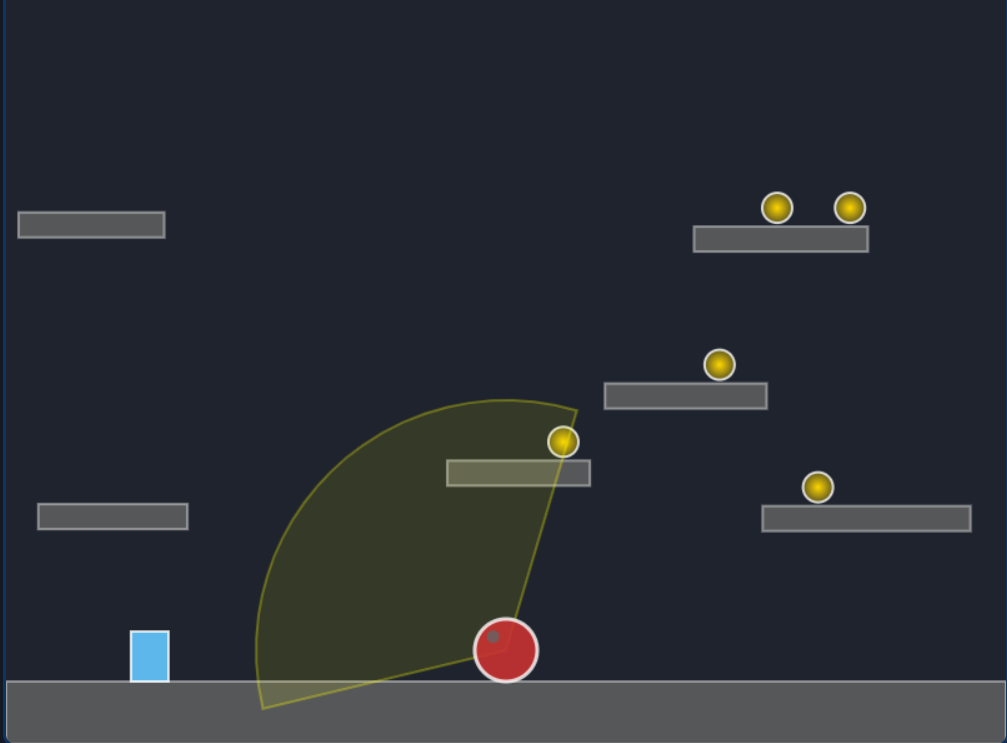
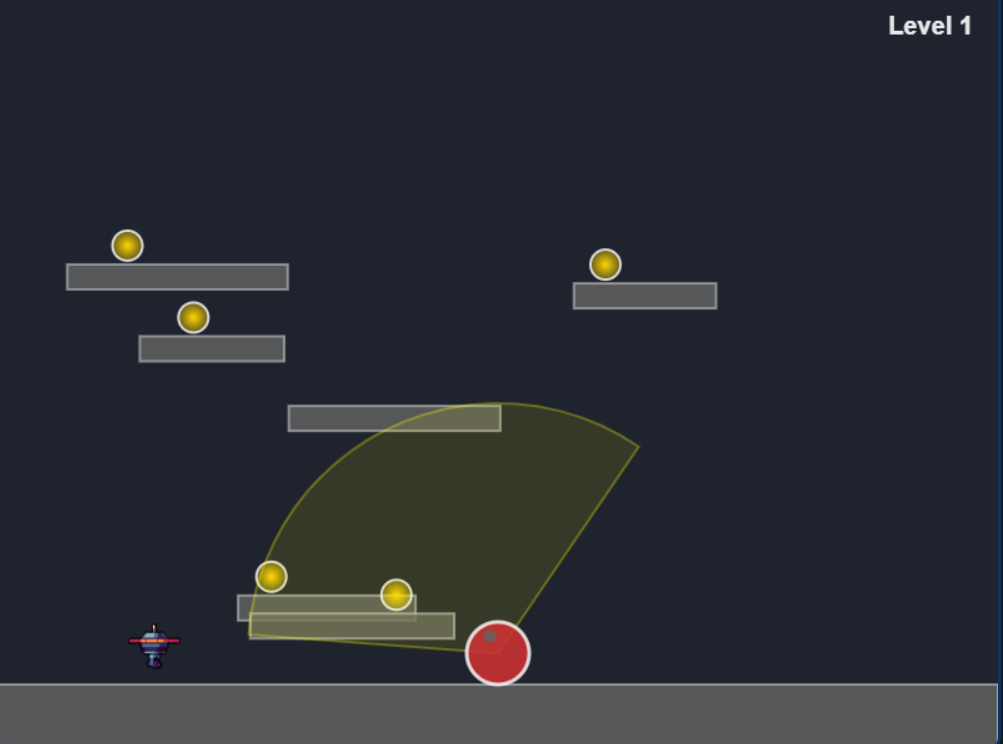
v5.5

diff --git a/assets/javascript/player.js b/assets/javascript/player.js
@@ -4,8 +4,8 @@ export class Player {
     constructor(x, y, game) {
         this.x = x; // Player x position
         this.y = y; // Player y position
-        this.width = 30; // Player width
-        this.height = 40; // Player height
+        this.width = 50; // Player width (increased from 30)
+        this.height = 60; // Player height (increased from 40)
         this.velocityX = 0; // Player horizontal velocity
         this.velocityY = 0; // Player vertical velocity
         this.speed = 5; // Player speed
@@ -16,30 +16,99 @@ export class Player {
         this.jumpCount = 0; // Player jump count
         this.isDropping = false; // Player is dropping through platform
         this.game = game; // Game instance
+        this.facingRight = true; // Track which direction player is facing
 
-        
-
-        // Animation states and frame data
+        // Animation states with sprite image paths
         this.animations = {
-            idle: this.mapSprite(['../img/drone_idle_anim/drone_idle1.png'
-                                ,'../img/drone_idle_anim/drone_idle2.png'
-                                ,'../img/drone_idle_anim/drone_idle3.png'
-                                ,'../img/drone_idle_anim/drone_idle4.png']), // Idle animation
-            walkR: this.mapSprite(['../img/drone_walkR_anim/drone_walkR1.png',
-                                '../img/drone_walkR_anim/drone_walkR2.png',
-                                '../img/drone_walkR_anim/drone_walkR3.png',
-                                '../img/drone_walkR_anim/drone_walkR4.png']), // Walk right animation
-            walkL: this.mapSprite(['../img/drone_walkL_anim/drone_walkRL1.png',
-                                '../img/drone_walkL_anim/drone_walkL2.png',
-                                '../img/drone_walkL_anim/drone_walkL3.png',
-                                '../img/drone_walkL_anim/drone_walkL4.png'])   // Walk left animation
+            idle: {
+                frames: this.loadSprites([
+                    '../img/drone_idle_anim/drone_idle1.png',
+                    '../img/drone_idle_anim/drone_idle2.png',
+                    '../img/drone_idle_anim/drone_idle3.png',
+                    '../img/drone_idle_anim/drone_idle4.png'
+                ]),
+                loaded: false
+            },
+            walkR: {
+                frames: this.loadSprites([
+                    '../img/drone_walkR_anim/drone_walkR1.png',
+                    '../img/drone_walkR_anim/drone_walkR2.png',
+                    '../img/drone_walkR_anim/drone_walkR3.png',
+                    '../img/drone_walkR_anim/drone_walkR4.png'
+                ]),
+                loaded: false
+            },
+            walkL: {
+                frames: this.loadSprites([
+                    '../img/drone_walkL_anim/drone_walkL1.png',
+                    '../img/drone_walkL_anim/drone_walkL2.png',
+                    '../img/drone_walkL_anim/drone_walkL3.png',
+                    '../img/drone_walkL_anim/drone_walkL4.png'
+                ]),
+                loaded: false
+            }
         };
         
         // Current animation state
         this.currentAnimation = 'idle'; // Default animation state
         this.currentFrame = 0; // Current frame index
         this.frameCounter = 0; // Counter for frame updates
-        this.animationSpeed = 100; // Animation speed
+        this.frameDelay = 8; // Number of game loops before advancing frame (controls animation speed)
+        this.spritesLoaded = false; // Track if all sprites are loaded
+        
+        // Check when sprites are loaded
+        this.checkSpritesLoaded();
+    }
+
+    // Load sprite images from file paths with error handling
+    loadSprites(imagePaths) {
+        return imagePaths.map((src, index) => {
+            const img = new Image();
+            
+            // Add error handler to prevent crashes
+            img.onerror = () => {
+                console.warn(`Failed to load sprite: ${src}`);
+            };
+            
+            // Add load handler to track loading status
+            img.onload = () => {
+                // Image loaded successfully
+            };
+            
+            img.src = src;
+            return img;
+        });
+    }
+
+    // Check if all sprites have finished loading
+    checkSpritesLoaded() {
+        let allLoaded = true;
+        
+        // Check all animation frames
+        for (const animName in this.animations) {
+            const anim = this.animations[animName];
+            const frames = anim.frames;
+            let animLoaded = true;
+            
+            for (const img of frames) {
+                // Check if image is loaded or failed to load
+                if (!img.complete) {
+                    animLoaded = false;
+                    allLoaded = false;
+                    break;
+                }
+            }
+            
+            // Mark this animation as loaded
+            anim.loaded = animLoaded;
+        }
+        
+        this.spritesLoaded = allLoaded;
+        
+        // If not all loaded, check again in 100ms
+        if (!allLoaded) {
+            setTimeout(() => this.checkSpritesLoaded(), 100);
+        }
     }
 
     // Player update function
@@ -49,105 +118,125 @@ export class Player {
         this.y += this.velocityY; // Apply vertical movement logic
         this.velocityX *= 0.85; // Apply friction logic
         
+        // Update facing direction based on velocity
+        if (this.velocityX > 0) {
+            this.facingRight = true;
+        } else if (this.velocityX < 0) {
+            this.facingRight = false;
+        }
+        
         // Keep player inside bounds
-        if (this.x < 0) this.x = 0; // If left edge of player is greater than left edge of canvas
+        if (this.x < 0) this.x = 0;
         if (this.x + this.width > this.game.canvas.width)
             this.x = this.game.canvas.width - this.width;
         
         // If player falls below canvas, trigger game over
         if (this.y > this.game.canvas.height)
-            this.game.gameState = 'gameOver'; // Set game state to game over
+            this.game.gameState = 'gameOver';
         
         // If player touches the ground, reset jump count
         if (this.isOnGround) {
-            this.jumpCount = 0; // Reset jump count
+            this.jumpCount = 0;
         }
         
-        // Player is not on ground
+        // Player is not on ground by default (will be set to true by collision detection)
         this.isOnGround = false;
         
         // Update animation state based on player movement
         this.updateAnimation();
     }
-
-    mapSprite(imgsArray) {
-    return imgsArray.map(src => {
-        const img = new Image();
-        img.src = src;
-        return img;
-    }
-    );
-    }
     
     // Update animation state based on player movement
     updateAnimation() {
-        // Determine which animation to play
-        if (Math.abs(this.velocityX) !== 0) {
-            this.currentAnimation = (this.velocityX > 0 ) ? 'walkR' : 'walkL'; // Determine which direction to play
+        // Determine which animation to play based on movement
+        if (Math.abs(this.velocityX) > 0.1) {
+            // Player is moving - use walk animation
+            // Use walkR for right movement, walkL for left movement
+            this.currentAnimation = this.facingRight ? 'walkR' : 'walkL';
         } else {
-            this.currentAnimation = 'idle'; // Play idle animation when stationary
+            // Player is stationary - use idle animation
+            this.currentAnimation = 'idle';
         }
         
-        // Update frame counter and advance frames
+        // Get current animation data
         const anim = this.animations[this.currentAnimation];
+        
+        // Safety check: ensure animation exists and has frames
+        if (!anim || !anim.frames || anim.frames.length === 0) {
+            console.warn(`Animation ${this.currentAnimation} not found or has no frames`);
+            this.currentAnimation = 'idle'; // Fallback to idle
+            return;
+        }
+        
+        // Update frame counter
         this.frameCounter++;
         
-        if (this.frameCounter >= this.animationSpeed) {
-            this.frameCounter = 0;
-            this.currentFrame = (this.currentFrame + 1) % anim.frames; // Loop through frames
+        // Advance to next frame when counter reaches delay threshold
+        if (this.frameCounter >= this.frameDelay) {
+            this.frameCounter = 0; // Reset counter
+            this.currentFrame = (this.currentFrame + 1) % anim.frames.length; // Loop through frames
         }
     }
 
     // Player draw function
     draw(context) {
-        // If sprite is loaded, draw sprite animation
-        if (this.spriteLoaded) {
-            const anim = this.animations[this.currentAnimation];
-            
-            // Calculate source coordinates on sprite sheet
-            const srcX = this.currentFrame * this.frameWidth;
-            const srcY = anim.row * this.frameHeight;
-            
-            // Save context state for transformations
-            context.save();
-            
-            // Apply red tint if player is detected
-            if (this.isDetected) {
-                context.globalAlpha = 0.7; // Make slightly transparent
-                context.fillStyle = 'rgba(255, 100, 100, 0.3)';
-                context.fillRect(this.x, this.y, this.width, this.height);
-                context.globalAlpha = 1.0; // Reset alpha
+        // Get current animation data
+        const anim = this.animations[this.currentAnimation];
+        
+        // Check if sprites are loaded and animation is valid
+        if (anim && anim.loaded && anim.frames && anim.frames.length > 0) {
+            // Ensure current frame is within bounds
+            if (this.currentFrame >= anim.frames.length) {
+                this.currentFrame = 0;
             }
             
-            // Flip sprite horizontally if facing left
-            if (!this.facingRight) {
-                context.translate(this.x + this.width, this.y);
-                context.scale(-1, 1);
-                context.drawImage(
-                    this.spriteSheet,
-                    srcX, srcY, this.frameWidth, this.frameHeight, // Source rectangle
-                    0, 0, this.width, this.height // Destination rectangle
-                );
-            } else {
-                context.drawImage(
-                    this.spriteSheet,
-                    srcX, srcY, this.frameWidth, this.frameHeight, // Source rectangle
-                    this.x, this.y, this.width, this.height // Destination rectangle
-                );
-            }
+            const currentImg = anim.frames[this.currentFrame];
             
-            // Restore context state
-            context.restore();
-        } else {
-            // Fallback: Draw player with different colours based on detection status (original code)
-            context.fillStyle = this.isDetected
-                ? 'rgba(255, 100, 100, 0.9)' // Player is detected (red)
-                : 'rgba(100, 200, 255, 0.9)'; // Player is not detected (blue)
-            context.fillRect(this.x, this.y, this.width, this.height); // Draw player rectangle
-            context.strokeStyle = 'rgba(255, 255, 255, 0.8)'; // Set stroke colour
-            context.lineWidth = 2; // Set stroke width
-            context.strokeRect(this.x, this.y, this.width, this.height); // Draw player outline
+            // Only draw if the current frame image is loaded and valid
+            if (currentImg && currentImg.complete && currentImg.naturalWidth > 0) {
+                // Save context state for transformations
+                context.save();
+                
+                // Apply red overlay if player is detected
+                if (this.isDetected) {
+                    context.globalAlpha = 0.7; // Make slightly transparent
+                    context.fillStyle = 'rgba(255, 100, 100, 0.3)';
+                    context.fillRect(this.x, this.y, this.width, this.height);
+                    context.globalAlpha = 1.0; // Reset alpha
+                }
+                
+                // Draw the sprite image
+                try {
+                    context.drawImage(
+                        currentImg,
+                        this.x, this.y, // Destination position
+                        this.width, this.height // Destination size
+                    );
+                } catch (error) {
+                    // If drawing fails, fall back to rectangle
+                    console.warn('Error drawing sprite:', error);
+                    this.drawFallbackRectangle(context);
+                }
+                
+                // Restore context state
+                context.restore();
+                return; // Exit early since we drew the sprite
+            }
         }
+        
+        // Fallback: Draw simple coloured rectangle if sprites aren't loaded
+        this.drawFallbackRectangle(context);
+    }
+
+    // Draw fallback rectangle when sprites fail to load
+    drawFallbackRectangle(context) {
+        context.fillStyle = this.isDetected
+            ? 'rgba(255, 100, 100, 0.9)' // Player is detected (red)
+            : 'rgba(100, 200, 255, 0.9)'; // Player is not detected (blue)
+        context.fillRect(this.x, this.y, this.width, this.height); // Draw player rectangle
+        context.strokeStyle = 'rgba(255, 255, 255, 0.8)'; // Set stroke colour
+        context.lineWidth = 2; // Set stroke width
+        context.strokeRect(this.x, this.y, this.width, this.height); // Draw player outline
     }
 
     // Player jump function

diff --git a/assets/javascript/game.js b/assets/javascript/game.js
@@ -70,7 +70,11 @@ class Game {
         const newCoins = [];
         // Creating random coins logic
         for (let i = 0; i < numCoins; i++) {
-            const p = this.platforms[Math.floor(Math.random() * (this.platforms.length - 1)) + 1]; // Random platform (excluding ground)
+            // Select a random platform (excluding ground platform at index 0)
+            const platformIndex = Math.floor(Math.random() * (this.platforms.length - 1)) + 1;
+            const p = this.platforms[platformIndex];
+            
+            // Generate coin position on platform
             const x = p.x + Math.random() * (p.width - 20) + 10; // Random x position on platform
             const y = p.y - 15; // Position above platform
             newCoins.push(new Coin(x, y, 12)); // Create coin with radius 12
@@ -86,7 +90,8 @@ class Game {
         // Only generate new coins if all coins have been collected
         if (uncollectedCoins === 0) {
             const newCoins = this.generateCoins(this.totalCoins); // Generate coins based on current level
-            this.coins.push(...newCoins); // Add new coins to existing coins array
+            // Replace the coins array instead of pushing (prevents array from growing indefinitely)
+            this.coins = newCoins;
         }
     }
     
@@ -117,8 +122,7 @@ class Game {
             // Generate new coins with increased count
             const uncollectedCoins = this.coins.filter(coin => !coin.collected).length;
             if (uncollectedCoins === 0) {
-                const newCoins = this.generateCoins(this.totalCoins);
-                this.coins.push(...newCoins);
+                this.coins = this.generateCoins(this.totalCoins);
             }
             
             // Add bonus score for reaching level 2
@@ -199,13 +203,17 @@ class Game {
     checkCoinCollection() {
         const px = this.player.x + this.player.width / 2; // Player centre x position
         const py = this.player.y + this.player.height / 2; // Player centre y position
-        // Adding coin collection logic
-        this.coins.forEach(coin => {
+        
+        // Adding coin collection logic - iterate through existing coins only
+        for (let i = 0; i < this.coins.length; i++) {
+            const coin = this.coins[i];
+            
             // If coin is not collected
             if (!coin.collected) {
                 const dx = px - coin.x; // Horizontal distance between player and coin
                 const dy = py - coin.y; // Vertical distance between player and coin
                 const dist = Math.sqrt(dx * dx + dy * dy); // Calculate Euclidean distance
+                
                 // If player is within the radius of the coin (collision detection)
                 if (dist < this.player.width / 2 + coin.radius) {
                     coin.collected = true; // Mark coin as collected
@@ -216,12 +224,12 @@ class Game {
                     if (this.coinsCollected % 10 === 0) {
                         this.saveScoreToLeaderboard(); // Save score to leaderboard
                     }
-                    
-                    // Check if all coins have been collected, then generate new set
-                    this.generateNewCoins();
                 }
             }
-        });
+        }
+        
+        // Check if all coins have been collected after the loop, then generate new set
+        this.generateNewCoins();
     }
     
     // Creating score saving function
